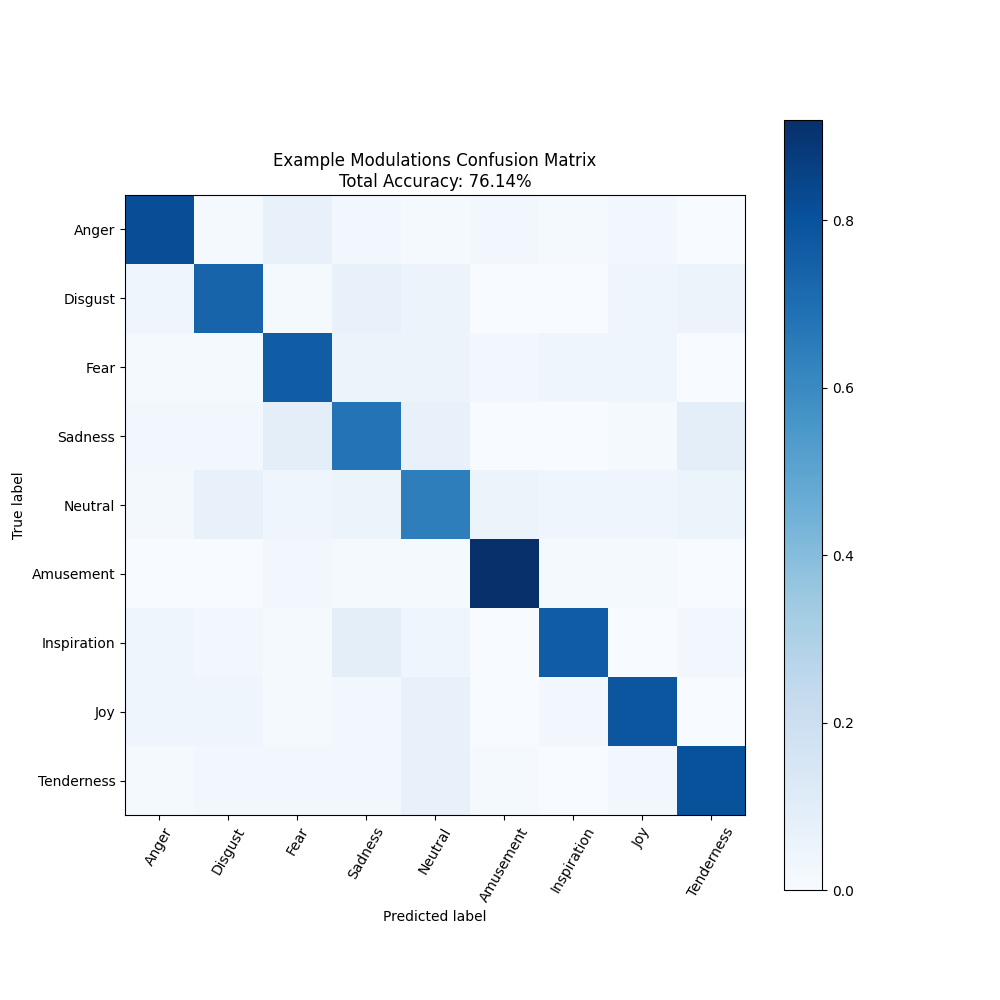
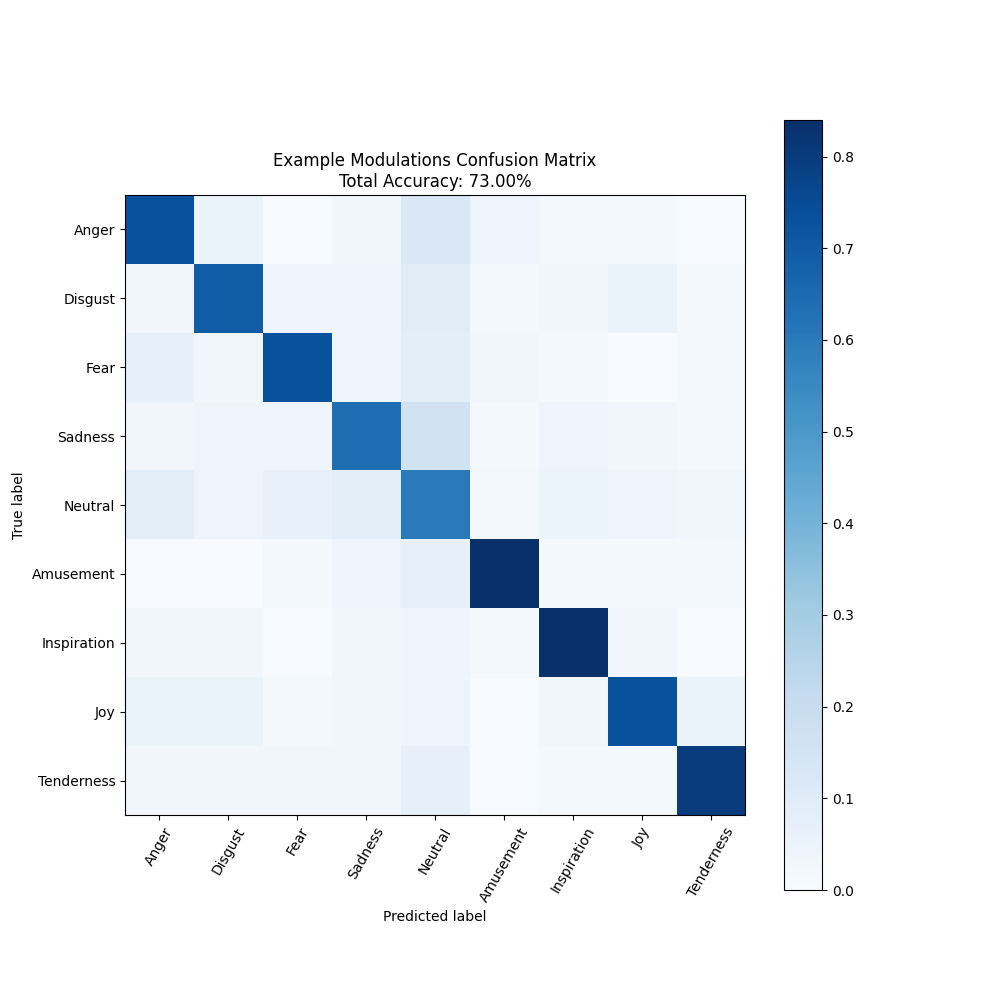
Updated the classifier to have efficient net as well

diff --git a/.ipynb_checkpoints/iterator-checkpoint.py b/.ipynb_checkpoints/iterator-checkpoint.py
@@ -15,11 +15,11 @@ argument_sets.append("--iq_samples 1024 --samples_per_class 8000 --batch_size 64
 
 #argument_sets.append("--iq_samples 1024 --samples_per_class 8000 --batch_size 64 --Hae_epochs 10 --Hqa_epochs 10 --classifier_epochs 10 --layers 3 --input_feature_dim 2 --codebook_slots 128 --codeword_dim 128 --codebook_init normal --batch_norm 1 --reset_choice 1 --num_res_blocks 0  --compress 2 --hae_lr 0.0004 --hqa_lr 0.0004  --CL_coeff 0 --visual_dir ./codebooks/ --trainbool True")
 
-argument_sets.append(" --batch_size 32 --Hae_epochs 30 --Hqa_epochs 10 --hae_Cos_coeff 0.1 --classifier_epochs 30 --layers 2 --input_feature_dim 32 --codebook_slots 512 --codeword_dim 512 --codebook_init normal --batch_norm 0 --reset_choice 1 --num_res_blocks 5  --compress 2 --hae_lr 0.0001 --hqa_lr 0.0004  --CL_coeff 0 --visual_dir ./codebooks/ --trainbool True")
-argument_sets.append(" --batch_size 32 --Hae_epochs 30 --Hqa_epochs 10 --hae_Cos_coeff 0.1 --classifier_epochs 30 --layers 2 --input_feature_dim 32 --codebook_slots 512 --codeword_dim 512 --codebook_init normal --batch_norm 0 --reset_choice 1 --num_res_blocks 5  --compress 2 --hae_lr 0.0001 --hqa_lr 0.0004  --CL_coeff 0 --visual_dir ./codebooks/ --trainbool True")
-argument_sets.append(" --batch_size 32 --Hae_epochs 30 --Hqa_epochs 10 --hae_Cos_coeff 0.1 --classifier_epochs 30 --layers 2 --input_feature_dim 32 --codebook_slots 512 --codeword_dim 512 --codebook_init normal --batch_norm 0 --reset_choice 1 --num_res_blocks 5  --compress 2 --hae_lr 0.0001 --hqa_lr 0.0004  --CL_coeff 0 --visual_dir ./codebooks/ --trainbool True")
-argument_sets.append(" --batch_size 32 --Hae_epochs 30 --Hqa_epochs 10 --hae_Cos_coeff 0.1 --classifier_epochs 30 --layers 2 --input_feature_dim 32 --codebook_slots 512 --codeword_dim 512 --codebook_init normal --batch_norm 0 --reset_choice 1 --num_res_blocks 5  --compress 2 --hae_lr 0.0001 --hqa_lr 0.0004  --CL_coeff 0 --visual_dir ./codebooks/ --trainbool True")
-argument_sets.append(" --batch_size 32 --Hae_epochs 30 --Hqa_epochs 10 --hae_Cos_coeff 0.1 --classifier_epochs 30 --layers 2 --input_feature_dim 32 --codebook_slots 512 --codeword_dim 512 --codebook_init normal --batch_norm 0 --reset_choice 1 --num_res_blocks 5  --compress 2 --hae_lr 0.0001 --hqa_lr 0.0004  --CL_coeff 0 --visual_dir ./codebooks/ --trainbool True")
+argument_sets.append(" --batch_size 32 --Hae_epochs 30 --Hqa_epochs 10 --hae_Cos_coeff 0.1 --classifier_epochs 30 --layers 2 --input_feature_dim 32 --codebook_slots 512 --codeword_dim 512 --codebook_init normal --batch_norm 0 --reset_choice 1 --num_res_blocks 4  --compress 2 --hae_lr 0.0001 --hqa_lr 0.0004  --CL_coeff 0 --visual_dir ./codebooks/ --trainbool True")
+argument_sets.append(" --batch_size 32 --Hae_epochs 30 --Hqa_epochs 10 --hae_Cos_coeff 0.1 --classifier_epochs 30 --layers 2 --input_feature_dim 32 --codebook_slots 512 --codeword_dim 512 --codebook_init normal --batch_norm 0 --reset_choice 1 --num_res_blocks 4  --compress 2 --hae_lr 0.0001 --hqa_lr 0.0004  --CL_coeff 0 --visual_dir ./codebooks/ --trainbool True")
+argument_sets.append(" --batch_size 32 --Hae_epochs 30 --Hqa_epochs 10 --hae_Cos_coeff 0.1 --classifier_epochs 30 --layers 2 --input_feature_dim 32 --codebook_slots 512 --codeword_dim 512 --codebook_init normal --batch_norm 0 --reset_choice 1 --num_res_blocks 4  --compress 2 --hae_lr 0.0001 --hqa_lr 0.0004  --CL_coeff 0 --visual_dir ./codebooks/ --trainbool True")
+argument_sets.append(" --batch_size 32 --Hae_epochs 30 --Hqa_epochs 10 --hae_Cos_coeff 0.1 --classifier_epochs 30 --layers 2 --input_feature_dim 32 --codebook_slots 512 --codeword_dim 512 --codebook_init normal --batch_norm 0 --reset_choice 1 --num_res_blocks 4  --compress 2 --hae_lr 0.0001 --hqa_lr 0.0004  --CL_coeff 0 --visual_dir ./codebooks/ --trainbool True")
+argument_sets.append(" --batch_size 32 --Hae_epochs 30 --Hqa_epochs 10 --hae_Cos_coeff 0.1 --classifier_epochs 30 --layers 2 --input_feature_dim 32 --codebook_slots 512 --codeword_dim 512 --codebook_init normal --batch_norm 0 --reset_choice 1 --num_res_blocks 4  --compress 2 --hae_lr 0.0001 --hqa_lr 0.0004  --CL_coeff 0 --visual_dir ./codebooks/ --trainbool True")
 
 
 for arguments in argument_sets: 

diff --git a/iterator.py b/iterator.py
@@ -15,11 +15,11 @@ argument_sets.append("--iq_samples 1024 --samples_per_class 8000 --batch_size 64
 
 #argument_sets.append("--iq_samples 1024 --samples_per_class 8000 --batch_size 64 --Hae_epochs 10 --Hqa_epochs 10 --classifier_epochs 10 --layers 3 --input_feature_dim 2 --codebook_slots 128 --codeword_dim 128 --codebook_init normal --batch_norm 1 --reset_choice 1 --num_res_blocks 0  --compress 2 --hae_lr 0.0004 --hqa_lr 0.0004  --CL_coeff 0 --visual_dir ./codebooks/ --trainbool True")
 
-argument_sets.append(" --batch_size 32 --Hae_epochs 30 --Hqa_epochs 10 --hae_Cos_coeff 0.1 --classifier_epochs 30 --layers 2 --input_feature_dim 32 --codebook_slots 512 --codeword_dim 512 --codebook_init normal --batch_norm 0 --reset_choice 1 --num_res_blocks 5  --compress 2 --hae_lr 0.0001 --hqa_lr 0.0004  --CL_coeff 0 --visual_dir ./codebooks/ --trainbool True")
-argument_sets.append(" --batch_size 32 --Hae_epochs 30 --Hqa_epochs 10 --hae_Cos_coeff 0.1 --classifier_epochs 30 --layers 2 --input_feature_dim 32 --codebook_slots 512 --codeword_dim 512 --codebook_init normal --batch_norm 0 --reset_choice 1 --num_res_blocks 5  --compress 2 --hae_lr 0.0001 --hqa_lr 0.0004  --CL_coeff 0 --visual_dir ./codebooks/ --trainbool True")
-argument_sets.append(" --batch_size 32 --Hae_epochs 30 --Hqa_epochs 10 --hae_Cos_coeff 0.1 --classifier_epochs 30 --layers 2 --input_feature_dim 32 --codebook_slots 512 --codeword_dim 512 --codebook_init normal --batch_norm 0 --reset_choice 1 --num_res_blocks 5  --compress 2 --hae_lr 0.0001 --hqa_lr 0.0004  --CL_coeff 0 --visual_dir ./codebooks/ --trainbool True")
-argument_sets.append(" --batch_size 32 --Hae_epochs 30 --Hqa_epochs 10 --hae_Cos_coeff 0.1 --classifier_epochs 30 --layers 2 --input_feature_dim 32 --codebook_slots 512 --codeword_dim 512 --codebook_init normal --batch_norm 0 --reset_choice 1 --num_res_blocks 5  --compress 2 --hae_lr 0.0001 --hqa_lr 0.0004  --CL_coeff 0 --visual_dir ./codebooks/ --trainbool True")
-argument_sets.append(" --batch_size 32 --Hae_epochs 30 --Hqa_epochs 10 --hae_Cos_coeff 0.1 --classifier_epochs 30 --layers 2 --input_feature_dim 32 --codebook_slots 512 --codeword_dim 512 --codebook_init normal --batch_norm 0 --reset_choice 1 --num_res_blocks 5  --compress 2 --hae_lr 0.0001 --hqa_lr 0.0004  --CL_coeff 0 --visual_dir ./codebooks/ --trainbool True")
+argument_sets.append(" --batch_size 32 --Hae_epochs 30 --Hqa_epochs 10 --hae_Cos_coeff 0.1 --classifier_epochs 30 --layers 2 --input_feature_dim 32 --codebook_slots 512 --codeword_dim 512 --codebook_init normal --batch_norm 0 --reset_choice 1 --num_res_blocks 4  --compress 2 --hae_lr 0.0001 --hqa_lr 0.0004  --CL_coeff 0 --visual_dir ./codebooks/ --trainbool True")
+argument_sets.append(" --batch_size 32 --Hae_epochs 30 --Hqa_epochs 10 --hae_Cos_coeff 0.1 --classifier_epochs 30 --layers 2 --input_feature_dim 32 --codebook_slots 512 --codeword_dim 512 --codebook_init normal --batch_norm 0 --reset_choice 1 --num_res_blocks 4  --compress 2 --hae_lr 0.0001 --hqa_lr 0.0004  --CL_coeff 0 --visual_dir ./codebooks/ --trainbool True")
+argument_sets.append(" --batch_size 32 --Hae_epochs 30 --Hqa_epochs 10 --hae_Cos_coeff 0.1 --classifier_epochs 30 --layers 2 --input_feature_dim 32 --codebook_slots 512 --codeword_dim 512 --codebook_init normal --batch_norm 0 --reset_choice 1 --num_res_blocks 4  --compress 2 --hae_lr 0.0001 --hqa_lr 0.0004  --CL_coeff 0 --visual_dir ./codebooks/ --trainbool True")
+argument_sets.append(" --batch_size 32 --Hae_epochs 30 --Hqa_epochs 10 --hae_Cos_coeff 0.1 --classifier_epochs 30 --layers 2 --input_feature_dim 32 --codebook_slots 512 --codeword_dim 512 --codebook_init normal --batch_norm 0 --reset_choice 1 --num_res_blocks 4  --compress 2 --hae_lr 0.0001 --hqa_lr 0.0004  --CL_coeff 0 --visual_dir ./codebooks/ --trainbool True")
+argument_sets.append(" --batch_size 32 --Hae_epochs 30 --Hqa_epochs 10 --hae_Cos_coeff 0.1 --classifier_epochs 30 --layers 2 --input_feature_dim 32 --codebook_slots 512 --codeword_dim 512 --codebook_init normal --batch_norm 0 --reset_choice 1 --num_res_blocks 4  --compress 2 --hae_lr 0.0001 --hqa_lr 0.0004  --CL_coeff 0 --visual_dir ./codebooks/ --trainbool True")
 
 
 for arguments in argument_sets: 

diff --git a/steps/.ipynb_checkpoints/train_classifier-checkpoint.py b/steps/.ipynb_checkpoints/train_classifier-checkpoint.py
@@ -30,8 +30,19 @@ def train_classifier(dl_train: DataLoader,
                      eff_net_PATH: str,
                      classes: list,
                      in_channels: int) -> ExampleNetwork:
+    '''
+    mdl = create_effnet(
+        timm.create_model(
+            "efficientnet_b0",
+            num_classes=9, #modify the total classes
+            in_chans=32, #modify the total input channels
+            drop_path_rate=drop_path_rate,
+            drop_rate=drop_rate,
+        )
+    )
+    # commented to not use efficient net
+    '''
     
-
     model = SimpleCNN1D(in_channels=in_channels, num_classes=len(classes))
     #model = EnhancedCNN1D(in_channels=in_channels, num_classes=len(classes))
     

diff --git a/steps/train_classifier.py b/steps/train_classifier.py
@@ -30,8 +30,19 @@ def train_classifier(dl_train: DataLoader,
                      eff_net_PATH: str,
                      classes: list,
                      in_channels: int) -> ExampleNetwork:
+    '''
+    mdl = create_effnet(
+        timm.create_model(
+            "efficientnet_b0",
+            num_classes=9, #modify the total classes
+            in_chans=32, #modify the total input channels
+            drop_path_rate=drop_path_rate,
+            drop_rate=drop_rate,
+        )
+    )
+    # commented to not use efficient net
+    '''
     
-
     model = SimpleCNN1D(in_channels=in_channels, num_classes=len(classes))
     #model = EnhancedCNN1D(in_channels=in_channels, num_classes=len(classes))
     

diff --git a/src/.ipynb_checkpoints/efficientNet_classifer-checkpoint.py b/src/.ipynb_checkpoints/efficientNet_classifer-checkpoint.py
@@ -13,7 +13,7 @@ class SimpleCNN1D(nn.Module):
         self.conv1 = nn.Conv1d(in_channels, 32, kernel_size=3, padding=1)
         self.conv2 = nn.Conv1d(32, 64, kernel_size=3, padding=1)
         self.conv3 = nn.Conv1d(64, 128, kernel_size=3, padding=1)
-        self.pool = nn.MaxPool1d(kernel_size=2, stride=2)
+        self.pool = nn.MaxPool1d(kernel_size=2, stride=2) #Try adaptive pooling
         
         # Calculate the flatten size dynamically
         self.flatten_size = self._get_flatten_size(in_channels, 7500)

diff --git a/src/efficientNet_classifer.py b/src/efficientNet_classifer.py
@@ -13,7 +13,7 @@ class SimpleCNN1D(nn.Module):
         self.conv1 = nn.Conv1d(in_channels, 32, kernel_size=3, padding=1)
         self.conv2 = nn.Conv1d(32, 64, kernel_size=3, padding=1)
         self.conv3 = nn.Conv1d(64, 128, kernel_size=3, padding=1)
-        self.pool = nn.MaxPool1d(kernel_size=2, stride=2)
+        self.pool = nn.MaxPool1d(kernel_size=2, stride=2) #Try adaptive pooling
         
         # Calculate the flatten size dynamically
         self.flatten_size = self._get_flatten_size(in_channels, 7500)
